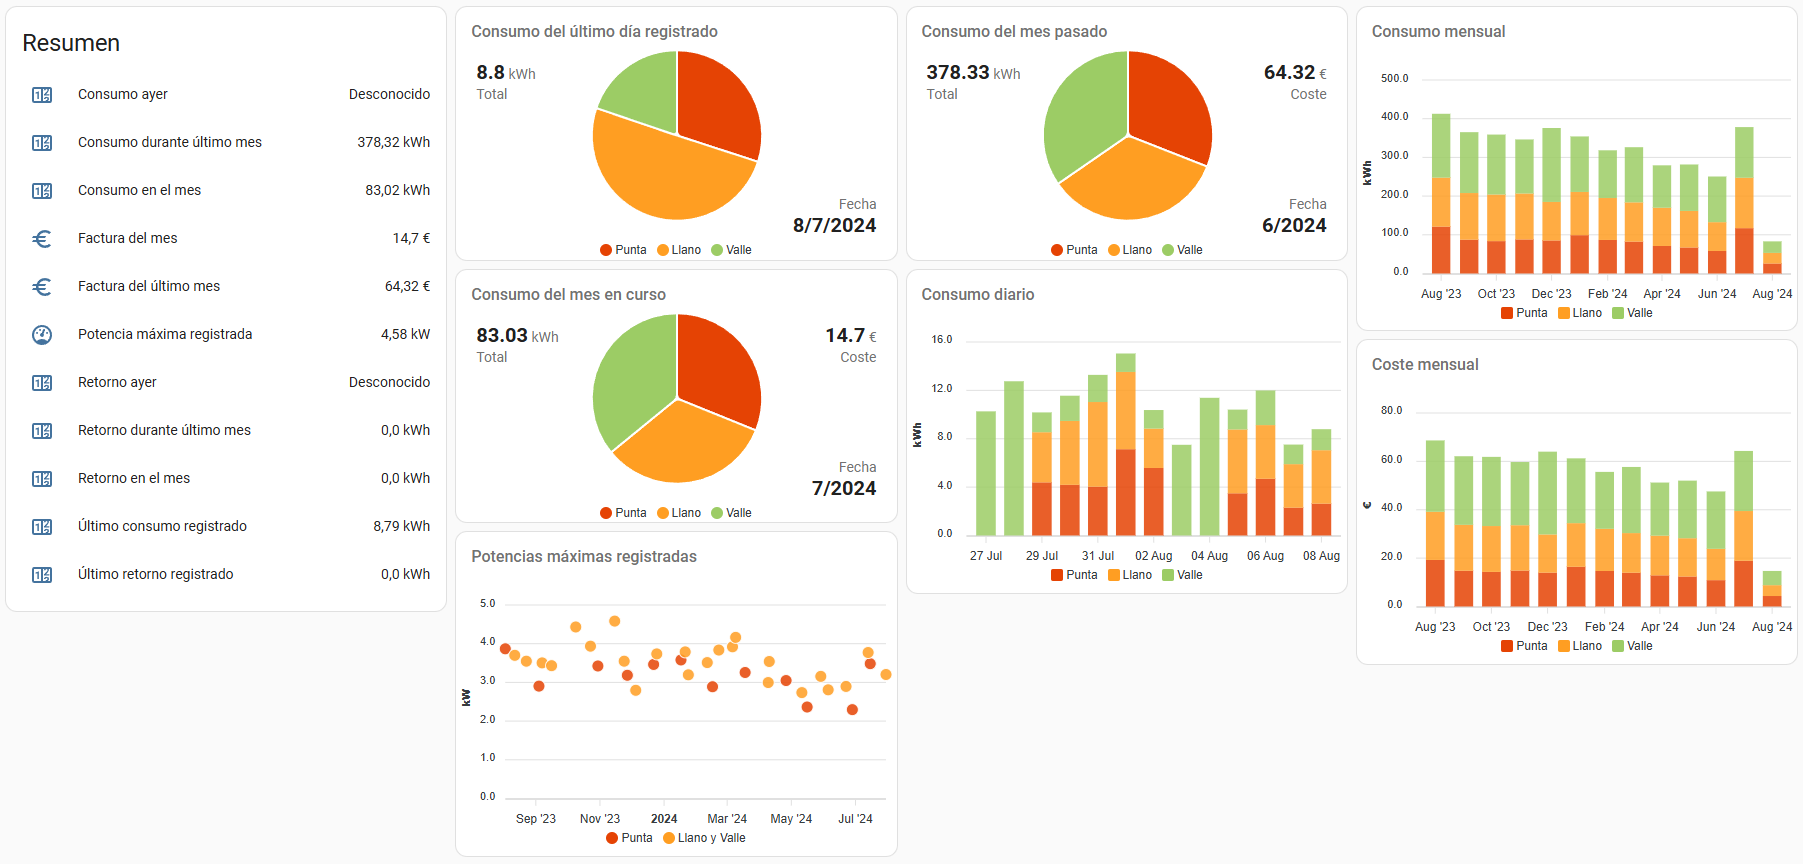
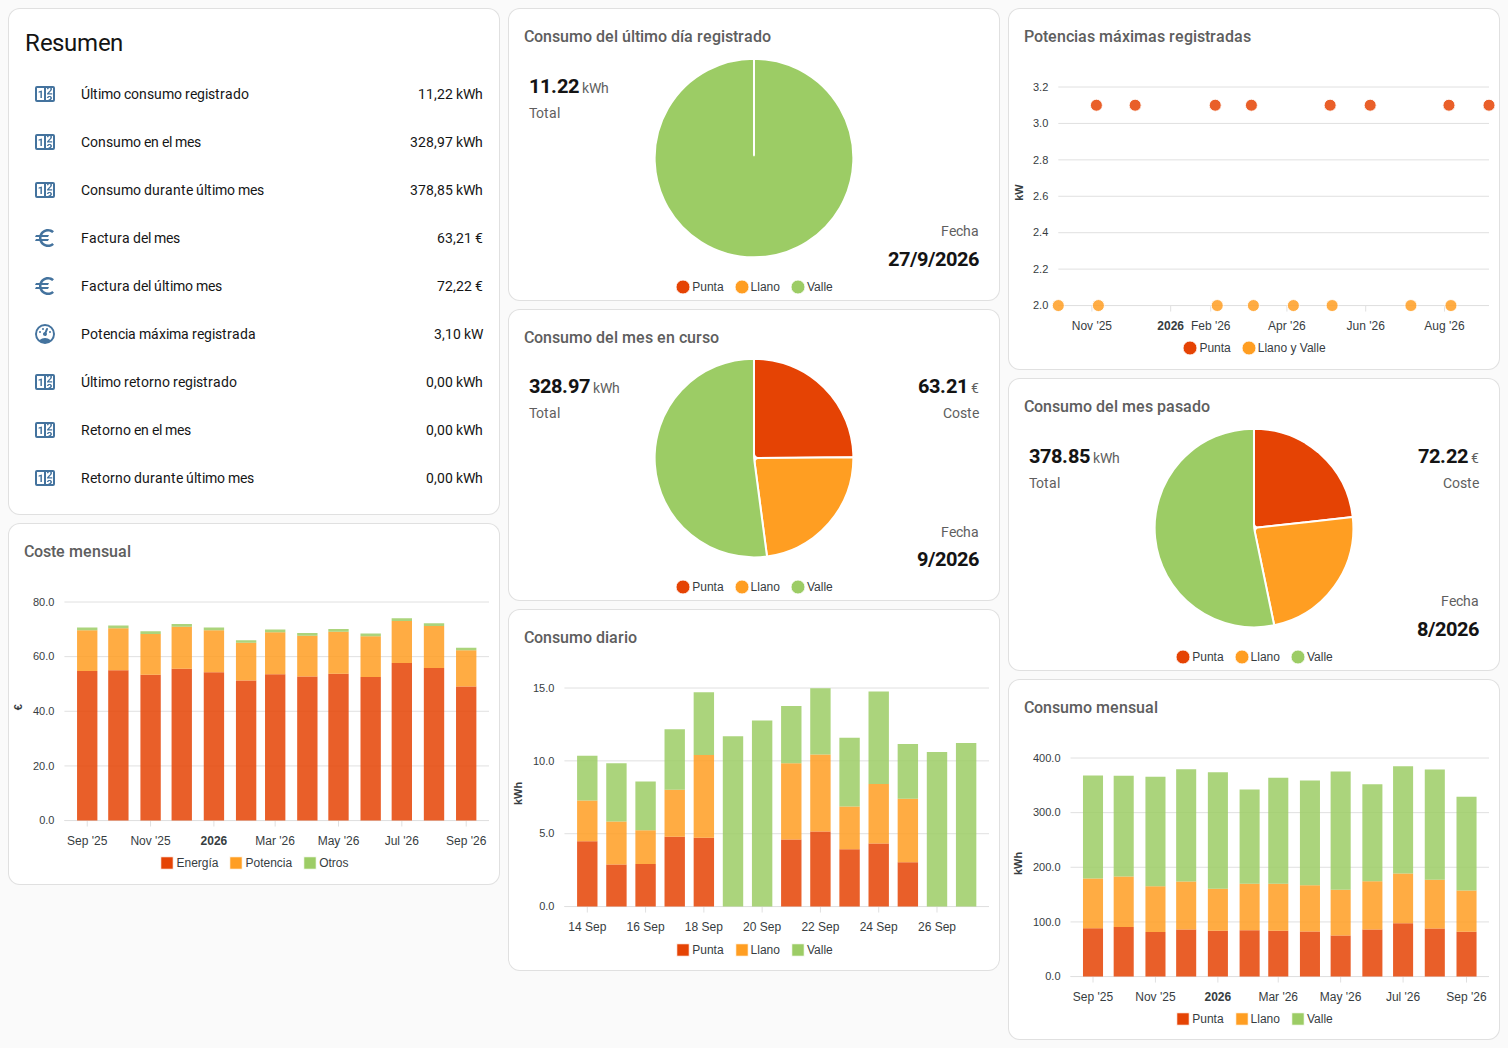
docs: new screenshots and the new entity IDs
- Retake every README screenshot on Home Assistant 2026.10 with made-up
  data: dashboard, installation, sensors, actions, billing options, energy
  and the ApexCharts examples (now in the repository instead of external
  GIFs).
- Show the CUPS choice step of the configuration.
- Explain that recent Home Assistant installs name the main sensor
  sensor.xxxx_edata_xxxx, also for the ApexCharts examples.
- Update the path to the energy grid settings.

diff --git a/README.md b/README.md
@@ -55,11 +55,17 @@ Una vez satisfecho lo anterior, los pasos a seguir para la instalación son:
 
 ![Selección de edata](assets/install.png)
 
-4. Configurar sus credenciales de Datadis, indicando el NIF autorizado _únicamente si no es el titular del suministro indicado_. A continuación se listará los suministros encontrados para las credenciales introducidas.
+4. Configurar sus credenciales de Datadis, indicando el NIF autorizado _únicamente si no es el titular del suministro indicado_.
 
 ![Paso de configuración](assets/install-step1.png)
 
-5. Esperar unos minutos. Le aparecerá un nuevo dispositivo, que consta de un sensor principal llamado `sensor.edata_xxxx` donde `xxxx` dependerá de los últimos caracteres de su CUPS, y de otros sensores con los datos.
+5. Elegir el suministro (CUPS) entre los encontrados para esas credenciales. Cada uno aparece con su dirección, y los que ya están configurados no se muestran.
+
+![Selección del CUPS](assets/install-step2.png)
+
+6. Esperar unos minutos. Le aparecerá un nuevo dispositivo llamado `XXXX`, donde `XXXX` son los últimos caracteres de su CUPS, con un sensor principal `edata_xxxx` y otros sensores con los datos.
+
+> **NOTA:** En las instalaciones recientes de Home Assistant, el ID del sensor principal es `sensor.xxxx_edata_xxxx`, porque Home Assistant antepone el nombre del dispositivo al de la entidad. Las instalaciones antiguas conservan `sensor.edata_xxxx`. Compruebe el suyo en el dispositivo.
 
 > **NOTA:** La instalación puede tardar bastante en su primera ejecución, ya que la integración descarga el histórico desde el inicio del suministro (como máximo los dos últimos años, que es lo que permite Datadis), y Datadis a veces puede tomarse su tiempo. Después, la integración solicitará únicamente lo que le falta, como mucho una vez cada 24 h.
 
@@ -69,7 +75,7 @@ La integración ofrece los sensores de la figura. Cada uno de estos sensores dis
 
 ![Sensores](assets/sensors.png)
 
-El sensor `sensor.edata_xxxx` es un tanto especial, ya que incluye información relativa al contrato vigente en el CUPS configurado, y su estado indica el último dato descargado de Datadis.
+El sensor principal (`edata_xxxx`) es un tanto especial, ya que incluye información relativa al contrato vigente en el CUPS configurado, y su estado indica el último dato descargado de Datadis.
 
 > **NOTA:** Si no ves los datos de ayer, lee el [FAQ](#FAQ)
 
@@ -152,7 +158,7 @@ No hay que rellenar nada, sólo visualizar, marcar la fecha desde la cual quiere
 
 ![Simulación del último mes](assets/configure-step4.png)
 
-Una vez configuradas y calculadas (tendrá que esperar un poco), las estadísticas pueden configurarse en el panel de energía en `Ajustes > Paneles de control > Energía > Añadir consumo (Red Eléctrica)`:
+Una vez configuradas y calculadas (tendrá que esperar un poco), las estadísticas pueden configurarse en el panel de energía en `Ajustes > Paneles de control > Energía > Red eléctrica > Añadir conexión a la red`:
 
 ![Opciones de edata](assets/configure-energy.png)
 
@@ -189,13 +195,13 @@ A continuación se ofrece la configuración orientativa para **visualizar los da
 
 > **IMPORTANTE:** en las siguientes tarjetas deberá reemplazar TODAS las ocurrencias de `xxxx` por sus últimos cuatro caracteres de su CUPS.
 >
-> **El nombre de las entidades puede ser distinto en su instalación. Revíselo.**
+> **El nombre de las entidades puede ser distinto en su instalación. Revíselo.** En las instalaciones recientes de Home Assistant, el sensor principal es `sensor.xxxx_edata_xxxx` en lugar de `sensor.edata_xxxx`; el `scups` de las consultas sigue siendo `xxxx`.
 
 Además, puedes consultar la sección _Discussions_ del repositorio, en el que los usuarios pueden compartir sus configuraciones, por si te gusta alguna.
 
 ### Consumo diario
 
-![GIF consumo diario](https://media.giphy.com/media/hnyH5DCpz9x4gzQWdi/giphy.gif)
+![Consumo diario](assets/apexcharts-daily.png)
 
 <details>
 <summary>He leído las instrucciones y quiero ver el contenido</summary>
@@ -269,7 +275,7 @@ series:
 
 ### Consumo mensual
 
-![GIF consumo mensual](https://i.imgur.com/sgPQbfd.png)
+![Consumo mensual](assets/apexcharts-monthly.png)
 
 <details>
 <summary>He leído las instrucciones y quiero ver el contenido</summary>
@@ -345,7 +351,7 @@ series:
 
 ### Maxímetro
 
-![Captura maximetro](https://media.giphy.com/media/uCt6kqj7XN5K3PN4mE/giphy.gif)
+![Maxímetro](assets/apexcharts-maximeter.png)
 
 <details>
 <summary>He leído las instrucciones y quiero ver el contenido</summary>
